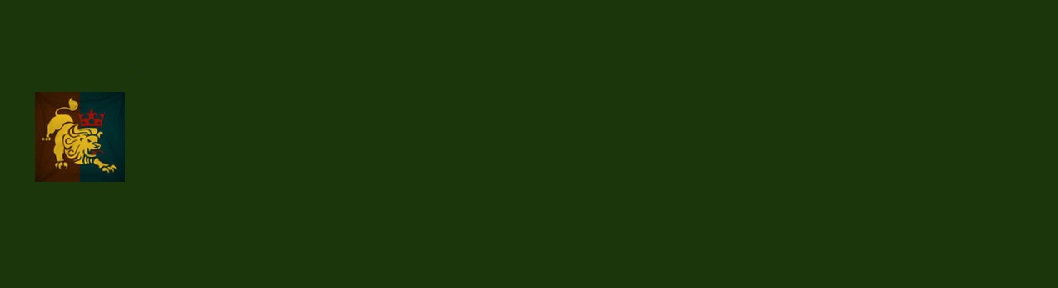
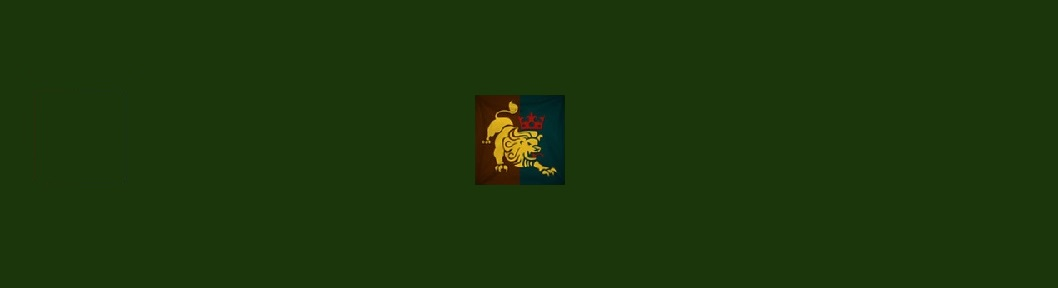
LUTY 2020

Changed region(s): [[0.4367, 0.3125, 0.5614, 0.6562], [0.0312, 0.3125, 0.1248, 0.6562]]

diff --git a/out/LTD/Index.html b/out/LTD/Index.html
@@ -59,7 +59,7 @@ body {
 
 .content {
   padding: 50px 0;
-  margin: 150px auto 0 auto;
+  margin: 10vw auto 0 auto;
   width: 90%;
   color: #FFFF24;
   text-shadow: 1px 1px 9px #f9f91f;
